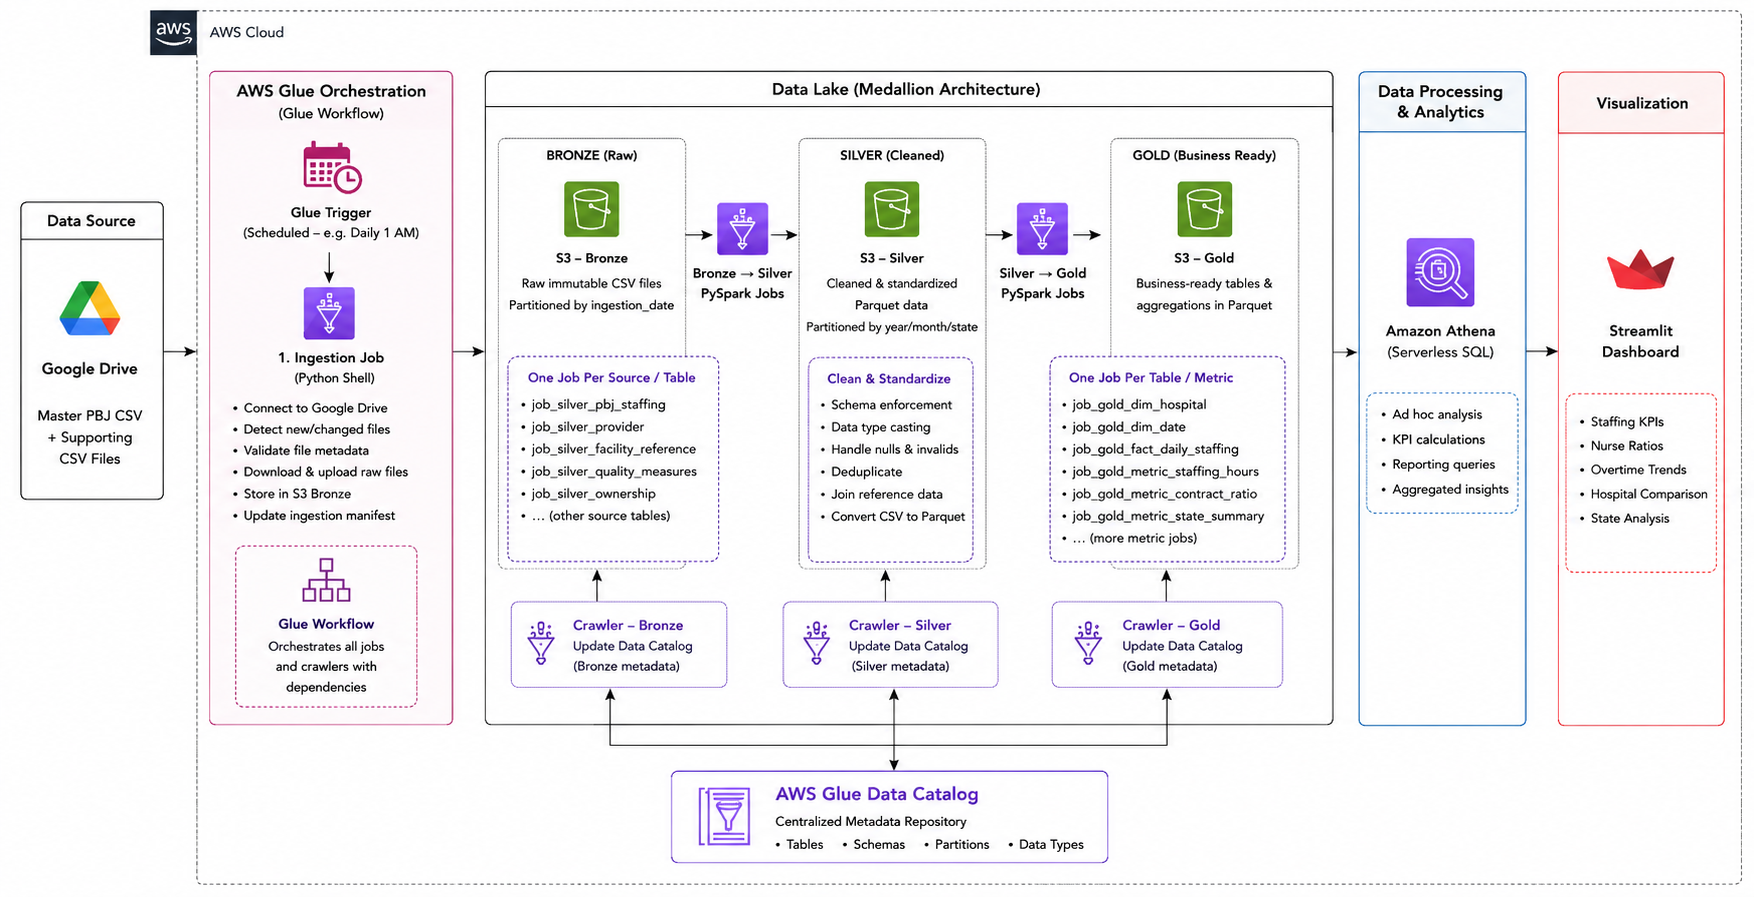
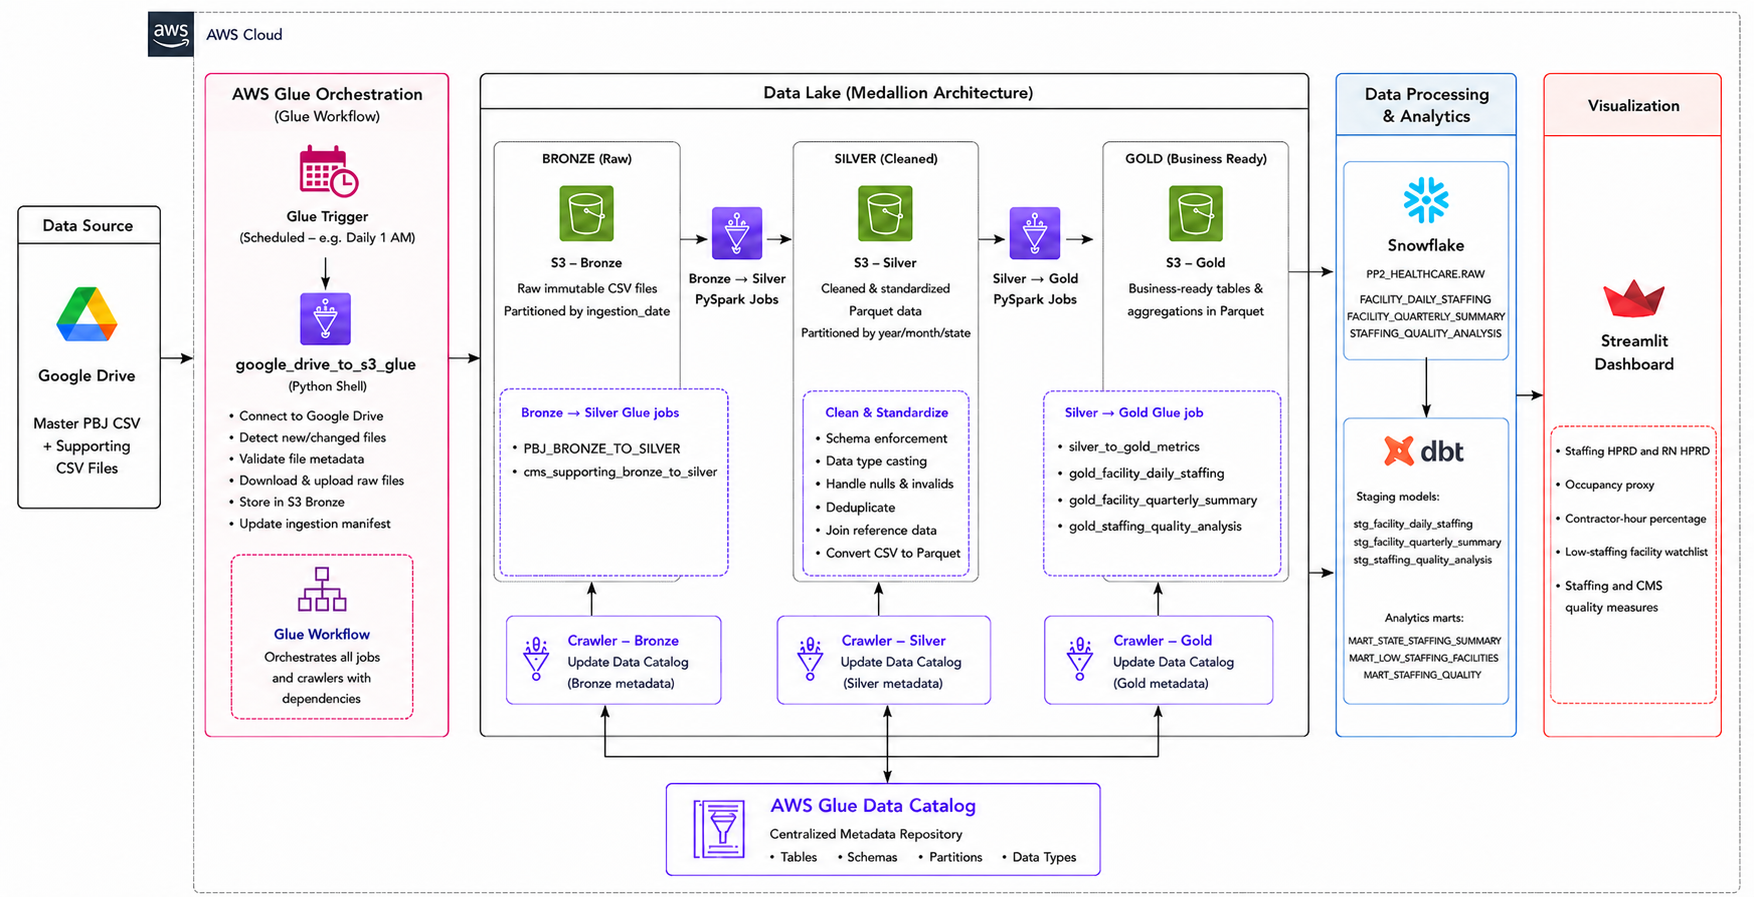
Update README.md with the project changes

diff --git a/README.md b/README.md
@@ -1,55 +1,98 @@
-# Healthcare Analytics Project
+# Healthcare Analytics Dashboard
 
-## Project Overview
+An end-to-end data engineering and analytics project that transforms U.S. nursing-home staffing data into an interactive Streamlit dashboard. The project focuses on staffing intensity, occupancy, contractor use, and CMS quality measures.
 
-This project is a healthcare analytics and data engineering workflow focused on staffing and operational performance data. It combines raw data ingestion, transformation, data profiling, and reporting in a structured project layout.
+## Business question
 
-The goal is to turn raw healthcare source files into a more usable analytics-ready foundation for downstream reporting and exploration.
+How do nursing-home staffing levels vary by state and facility, and how do those patterns compare with occupancy and rehospitalization/readmission measures?
 
-## Current Project Structure
+## Architecture
 
-- data/ - source data files used by the project
-- data_profiling/ - Python profiling script and generated Excel output
-- docs/ - architecture and project images
-- glue_jobs/ - AWS Glue job scripts for ingestion and transformation
+![Final project architecture](<docs/Final Project Architecture.png>)
 
-## Data Flow
+## Technology stack
 
-The project currently includes:
+Google Drive | AWS Glue | Amazon S3 | Snowflake | dbt | Streamlit | Python | Pandas | Plotly
 
-- Google Drive to S3 ingestion via a Glue job
-- PBJ and CMS-related bronze-to-silver transformations
-- Silver-to-gold metric processing
-- Data profiling scripts that generate Excel-based reports
+| Technology | Purpose |
+|---|---|
+| Google Drive | Source-file delivery |
+| AWS Glue | Ingestion and Spark transformations |
+| Amazon S3 | Bronze, Silver, and Gold data-lake layers |
+| Snowflake | Analytics warehouse for curated data |
+| dbt | SQL transformation, testing, lineage, and dashboard marts |
+| Streamlit | Four-page interactive dashboard |
 
-## Local Development Setup
+## Data pipeline
 
-1. Create and activate a Python virtual environment
+The project uses the CMS Payroll-Based Journal (PBJ) Daily Nurse Staffing file for Q2 2024 and supporting CMS nursing-home provider and quality datasets.
 
-   - python3 -m venv .venv
-   - source .venv/bin/activate
-2. Install dependencies
+1. **Ingest** — A Glue Python Shell job copies source files from Google Drive into the S3 Bronze layer.
+2. **Clean** — Two Glue Spark jobs standardize PBJ staffing records and CMS supporting data in the Silver layer.
+3. **Calculate** — A Glue Spark job creates Gold metrics for daily staffing, facility quarterly summaries, and staffing-quality analysis.
+4. **Load** — Gold Parquet data is loaded into Snowflake `PP2_HEALTHCARE.RAW`.
+5. **Model** — dbt creates tested staging models and analytics marts in `PP2_HEALTHCARE.ANALYTICS`.
+6. **Visualize** — Streamlit queries only the analytics marts.
 
-   - pip install -r requirements.txt
-3. Run the profiling script
+## Analytics models
 
-   - python data_profiling/data_profiling.py
+| dbt mart | Purpose |
+|---|---|
+| `MART_STATE_STAFFING_SUMMARY` | State-level staffing HPRD, RN HPRD, occupancy proxy, and contractor use |
+| `MART_LOW_STAFFING_FACILITIES` | Facilities with the lowest staffing HPRD relative to resident census |
+| `MART_STAFFING_QUALITY` | Staffing metrics alongside CMS rehospitalization/readmission measures |
 
-## dbt Setup
+## Dashboard
 
-If you want to add or work with dbt later, you can initialize it in this repository and use the standard dbt project structure.
+The Streamlit app contains four pages:
 
-## Notes
+- **Overview** — Staffing and occupancy KPIs with state comparisons
+- **State Staffing** — Staffing mix, RN coverage, occupancy, and contractor use by state
+- **Facility Watchlist** — Lowest-staffed facilities and resident-census context
+- **Staffing & Quality** — Exploratory comparison of staffing and CMS quality measures
 
-- The repository includes local development files such as notes.txt, which are intentionally ignored by Git.
-- The project uses Python for profiling and reporting tasks, and Glue jobs for the pipeline layer.
+Run the dashboard locally:
 
-## Planned Direction
+```bash
+streamlit run streamlit_dashboard/app.py
+```
 
-The project is being organized around a modern data lake and analytics workflow using:
+Copy `.streamlit/secrets.toml.example` to `.streamlit/secrets.toml` and add Snowflake credentials before running locally. The real secrets file is ignored by Git.
 
-- AWS Glue
-- Amazon S3
-- Snowflake
-- dbt
-- Streamlit
+## Repository structure
+
+```text
+glue_jobs/              AWS Glue ingestion and transformation scripts
+models/                 dbt sources, staging models, and marts
+streamlit_dashboard/    Streamlit dashboard entry point
+data_profiling/         Local data-profiling script
+docs/                   Architecture and project documentation
+```
+
+## Local setup
+
+```bash
+python3 -m venv .venv
+source .venv/bin/activate
+pip install -r requirements.txt
+```
+
+To build dbt models after configuring the Snowflake profile:
+
+```bash
+dbt debug
+dbt build
+```
+
+## Metric definitions and limitations
+
+- **HPRD**: total nursing hours per resident day
+- **RN HPRD**: registered-nurse hours per resident day
+- **Occupancy proxy**: resident census divided by certified beds
+- **Contractor percentage**: contract nursing hours divided by employee plus contract nursing hours
+
+This dataset represents nursing homes, not hospitals. It does not include department-level staffing, individual shifts, payroll, revenue, patient satisfaction, or length-of-stay data. Staffing and CMS quality measures have different reporting periods, so quality comparisons are exploratory and do not establish causation.
+
+## Security and data handling
+
+Raw source files, generated data, Snowflake credentials, Google service-account credentials, and Streamlit secrets are excluded from version control. Only code, configuration templates, and documentation are committed to GitHub.
